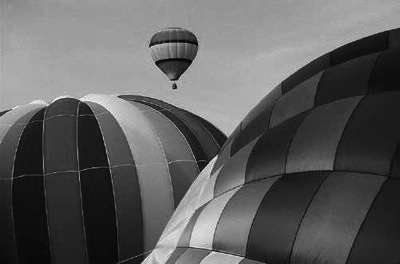
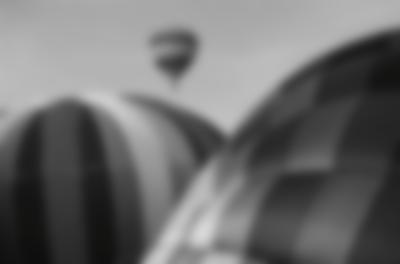
added images and some content

diff --git a/latex/documentation.tex b/latex/documentation.tex
@@ -7,9 +7,10 @@
 \usepackage{float}
 \usepackage{graphicx}
 \usepackage{subfigure}
+\usepackage[format=plain,labelfont=bf,up]{caption}
 \usepackage{hyperref}
 \bibliography{documentation.bib}
-\title{Augmented Reality Simulator für Sehstörungen}
+\title{Impaired Vision \\ Ein Augmented-Reality-Simulator für Sehstörungen}
 \author{Willi Schönborn}
 \date{\today}
 \begin{document}
@@ -23,48 +24,95 @@
 \section*{Einleitung}
 Als Teil der Lehrveranstaltung \textit{Multimediatechnik Vertiefung} an der \textit{Beuth Hochschule für Technik Berlin} soltel im Rahmen einer Semesterarbeit ein Projekt mit Bezügen zu den Bereichen Multimedia und Wahrnehmung entstehen. Das Ziel dieses Dokumentes ist es die Ideen, Konzepte sowie die Ergebnisse dieses Projektes vorzustellen.
 
+\section*{Augmented Reality}
+Unter \textit{Augmented Reality} versteht man die computergestützte Erweiterung der Realitätswahrnehmung \cite{WP-AR2011}. Es gibt diverse doch sehr ausschweifende Definitionen dieses Begriffs. Innerhalb dieses Dokumentes wird Augmented Reality als die visuelle Darstellung von Informationen verstanden, also die Ergänzung von Bildern oder Videos mit computergenerierten Zusatzinformationen oder virtuellen Objekten mittels Einblendung/Überlagerung \cite{WP-AR2011}. Abbildung \ref{augmented-reality} zeigt eine typische Anwendung der Prinzipien von Augmented Reality anhand einer Anwendung für Smartphones, die es erlaubt geographische Informationen über Objekte die sich im Sichtfeld des Betrachters befinden direkt über das Kamerabild zu legen. Mithilfe solcher Augmented-Reality-Anwendungen entsteht eine neuartige Wahrnehmung der Umgebung. Genau an dieser Stelle setzt die Idee dieses Projektes an: Eine ungewohnte Sicht auf gewohnte Dinge ermöglichen.
+
 \begin{figure}[H]
 \centering
-\includegraphics[width=0.7\textwidth]{augmented-reality.jpg}
+\includegraphics[width=0.9\textwidth, trim=0 40 0 50, clip=true]{augmented-reality.jpg}
 \caption{Augmented Reality Anwendung}
+\label{augmented-reality}
 \end{figure}
 
-\section*{Idee}
+\newpage
 
-Die Idee ist es, eine Android-Applikation zu entwickeln, die mithilfe der Handy-Kamera einen virtuellen Blick auf die Welt erlaubt und dabei diverse Sehstörungen simulieren kann. Das Design sowie die Benutzerschnittstelle sollten dabei so minimal wie möglich gehalten werden. Der gesamte Bildschirm stellt das aktuelle Bild der Kamera da, natürlich entsprechend modifiziert, je nach gewählter Sehstörung. Die verschiedenen Simulationen könnten beispielsweise einfach durch das Kontextmenü auswählbar sein. Mögliche Kandidaten für die Sehstörungen, die simuliert werden können sind Rot-Grün-Sehschwäche, Gelb-Blau-Sehschwäche sowie Kurzsichtigkeit. 
+\section*{Idee}
+Das Ergebnis dieses Projektes sollte ein Anwendung für Mobiltelefone werden, die es ermöglicht diverse Sehstörungen für normalsichtige Menschen zu simulieren. In der schriftlichen Projektidee wurden als mögliche Kandidaten für die Sehstörungen, die simuliert werden können Rot-Grün-Sehschwäche, Gelb-Blau-Sehschwäche sowie Kurzsichtigkeit aufgeführt. Nach einigen Recherchen sowie dem ausgiebigen Studium von \textit{Sensation and Perception} \cite{Goldstein2009} wurde relativ schnell deutlich, dass umgangssprachliche Vereinfachungen wie \textit{farbenblind} oder \textit{Rot-Grün-Schwäche} differenzierter betrachtet werden müssen um ein zufriedenstellendes Projektergebis zu erreichen. Zu diesem Zweck werden im nächsten Kapitel alle Sehstörungen näher behandelt und analysiert, die später simuliert werden sollen.
 
 \section*{Sehstörungen}
+Insgesamt wurden fünf unterschiedliche Sehschwächen ausgewählt wobei der Schwerpunkt klar auf den Farbfehlsichtigkeiten liegt. Neben der klassischen Myopie, der Kurzsichtigkeit, sowie den drei Vertretern der Dichromasie, der teilweisen Farbblindheit \cite{WP-D2011} wird auch die Achromasie, die komplette Farbenblindheit, behandelt. 
+
+\subsection*{Myopie}
+
 \begin{figure}[H]
 \centering
 \subfigure[Normalsichtigkeit]{
     \includegraphics[width=0.475\textwidth]{balloons.jpg}
 }
-\subfigure[Kurzsichtigkeit]{
+\subfigure[Myopie (Kurzsichtigkeit)]{
     \includegraphics[width=0.475\textwidth]{balloons-myopia.jpg}
+}
+\caption{Myopie im Vergleich}
+\end{figure}
+
+\subsection*{Protanopie}
+
+\begin{figure}[H]
+\centering
+\subfigure[Normalsichtigkeit]{
+    \includegraphics[width=0.475\textwidth]{balloons.jpg}
 }
 \subfigure[Protanopie]{
     \includegraphics[width=0.475\textwidth]{balloons-protanope.jpg}
 }
+\caption{Protanopie im Vergleich}
+\end{figure}
+
+\subsection*{Deuteranopie}
+
+\begin{figure}[H]
+\centering
+\subfigure[Normalsichtigkeit]{
+    \includegraphics[width=0.475\textwidth]{balloons.jpg}
+}
 \subfigure[Deuteranopie]{
     \includegraphics[width=0.475\textwidth]{balloons-deuteranope.jpg}
+}
+\caption{Deuteranopie im Vergleich}
+\end{figure}
+
+\subsection*{Tritanopie}
+
+\begin{figure}[H]
+\centering
+\subfigure[Normalsichtigkeit]{
+    \includegraphics[width=0.475\textwidth]{balloons.jpg}
 }
 \subfigure[Tritanopie]{
     \includegraphics[width=0.475\textwidth]{balloons-tritanope.jpg}
 }
+\caption{Tritanopie im Vergleich}
+\end{figure}
+
+\subsection*{Achromasie}
+
+\begin{figure}[H]
+\centering
+\subfigure[Normalsichtigkeit]{
+    \includegraphics[width=0.475\textwidth]{balloons.jpg}
+}
 \subfigure[Achromasie]{
     \includegraphics[width=0.475\textwidth]{balloons-achromate.jpg}
 }
-\caption{Sehstörungen im direkten Vergleich}
+\caption{Achromasie im Vergleich}
 \end{figure}
 
 \newpage
 
-\nocite{gizmodo}
-\nocite{android}
-\nocite{wp-rotgruen}
-\nocite{vischeck}
-\nocite{ichbinfarbenblind}
-\nocite{kurzsichtig}
+\nocite{ANDROID}
+\nocite{GIZMODO}
+\nocite{VISCHECK}
+\nocite{IBFB}
 \printbibliography
 
 \listoffigures
